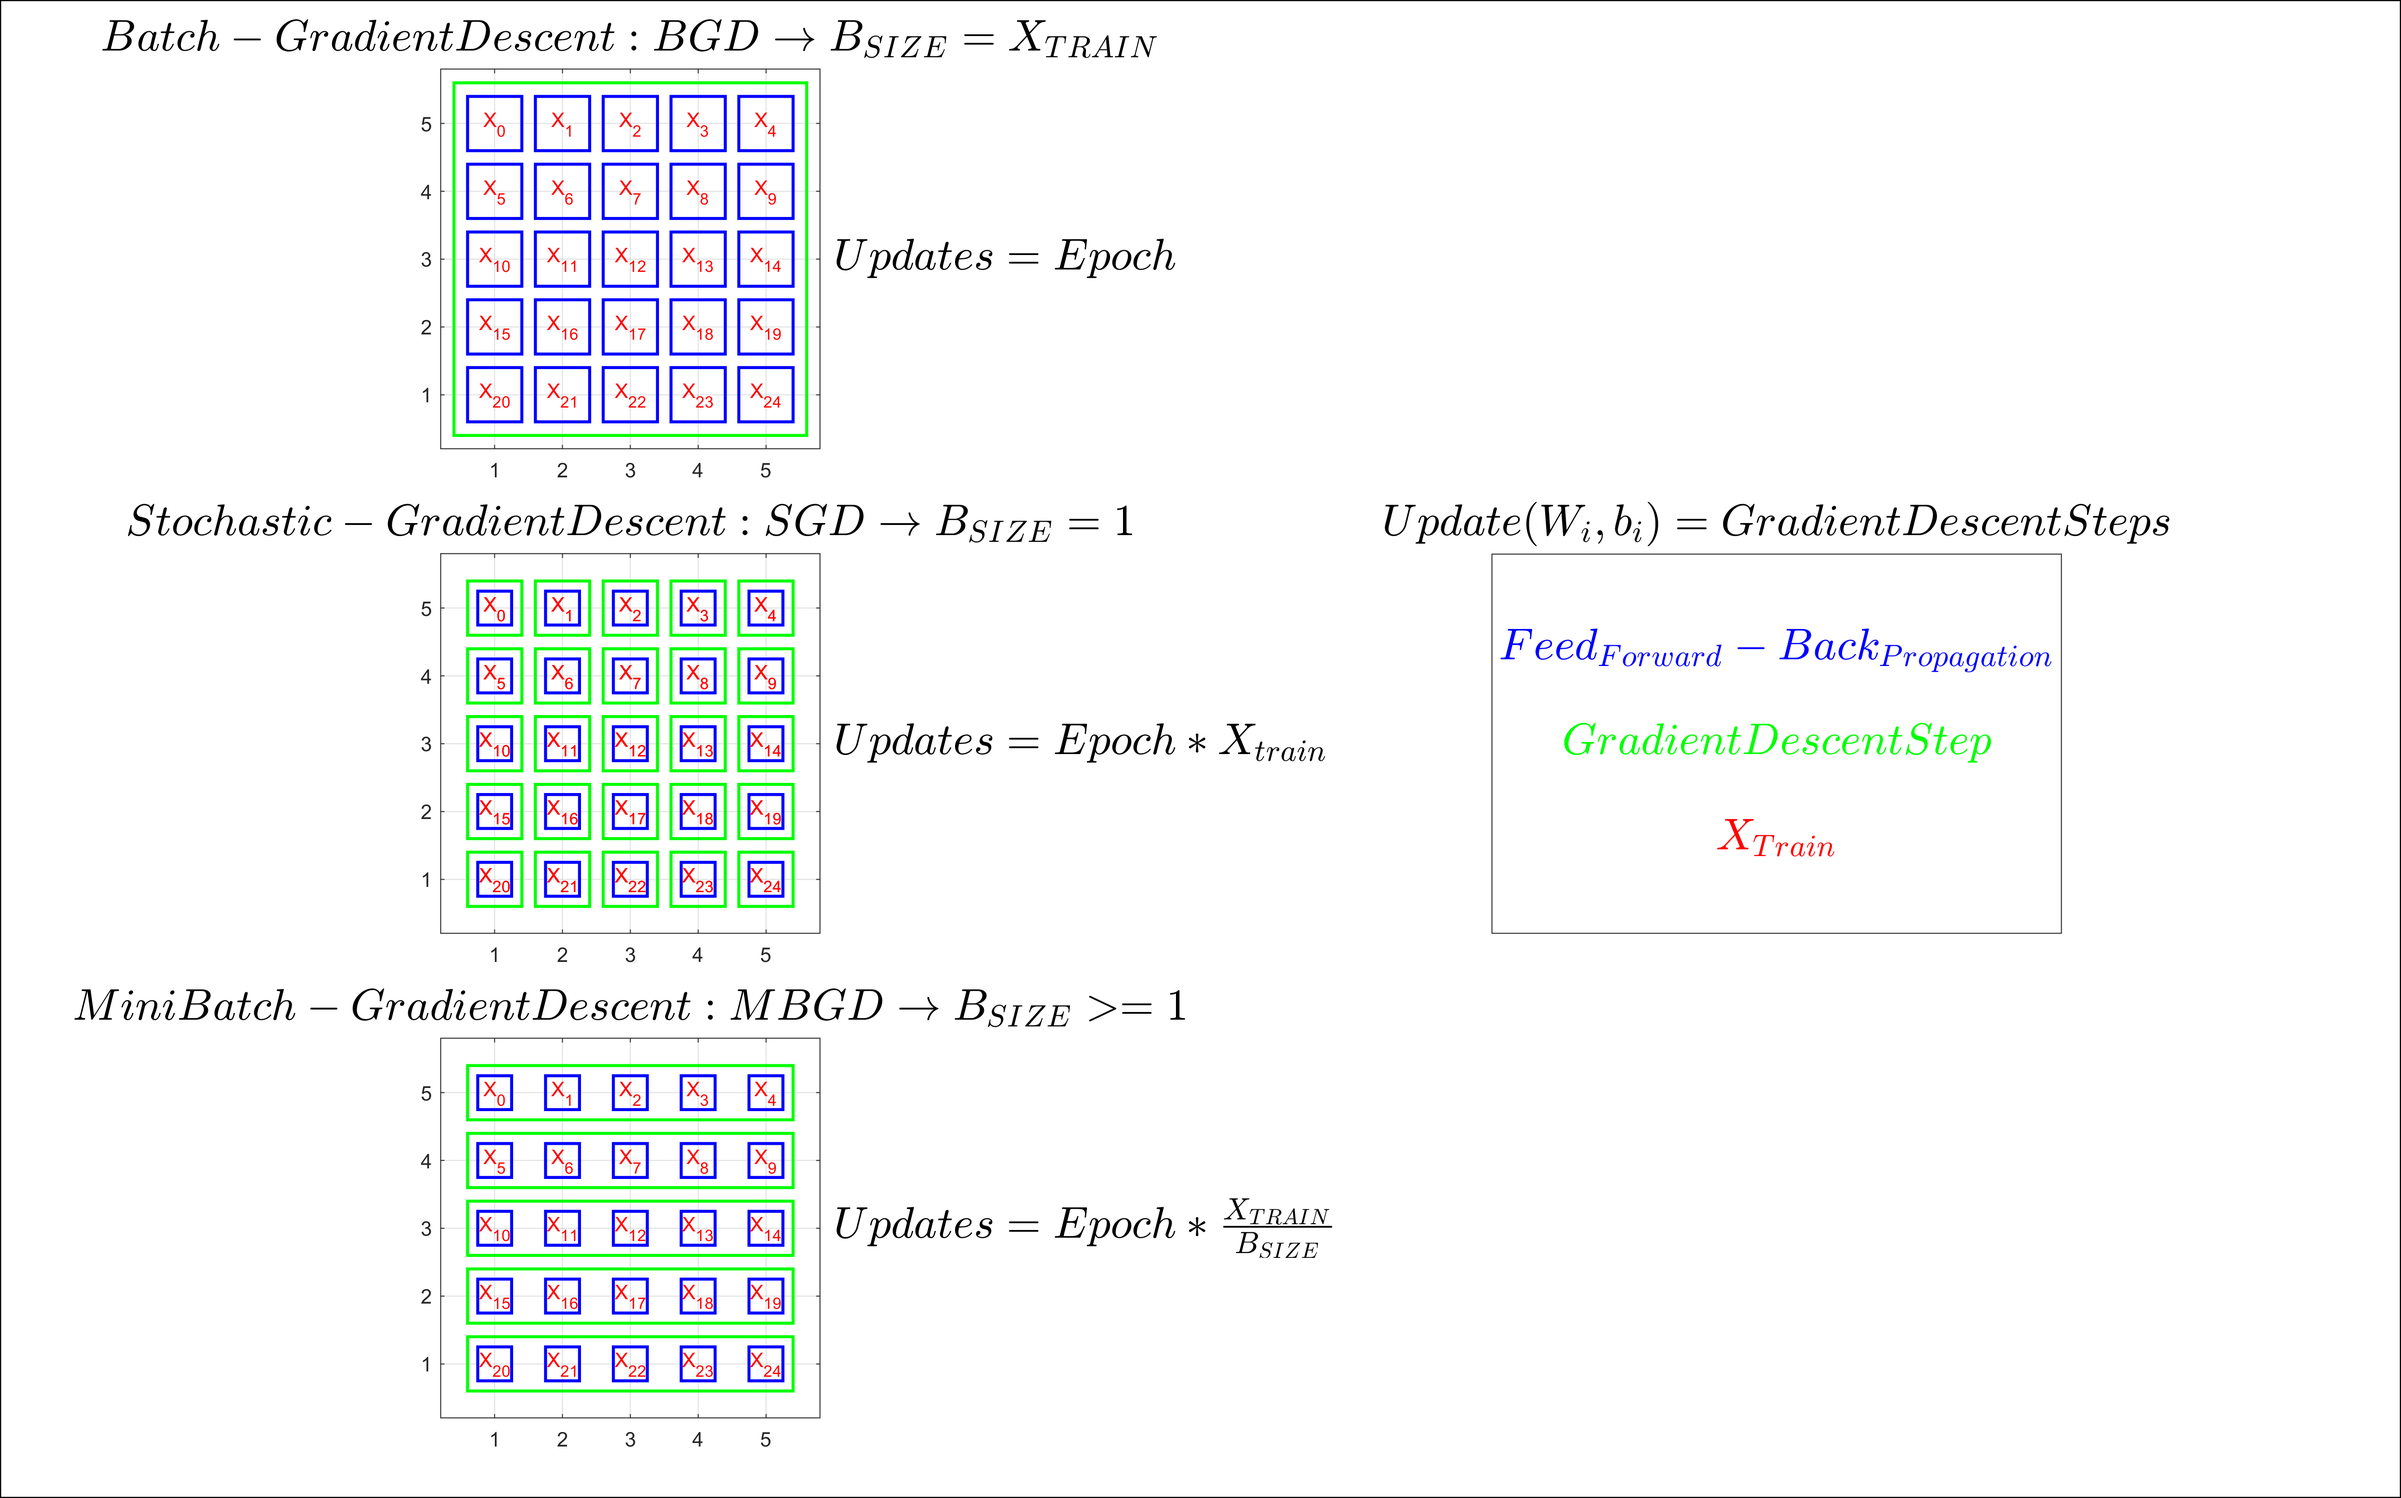
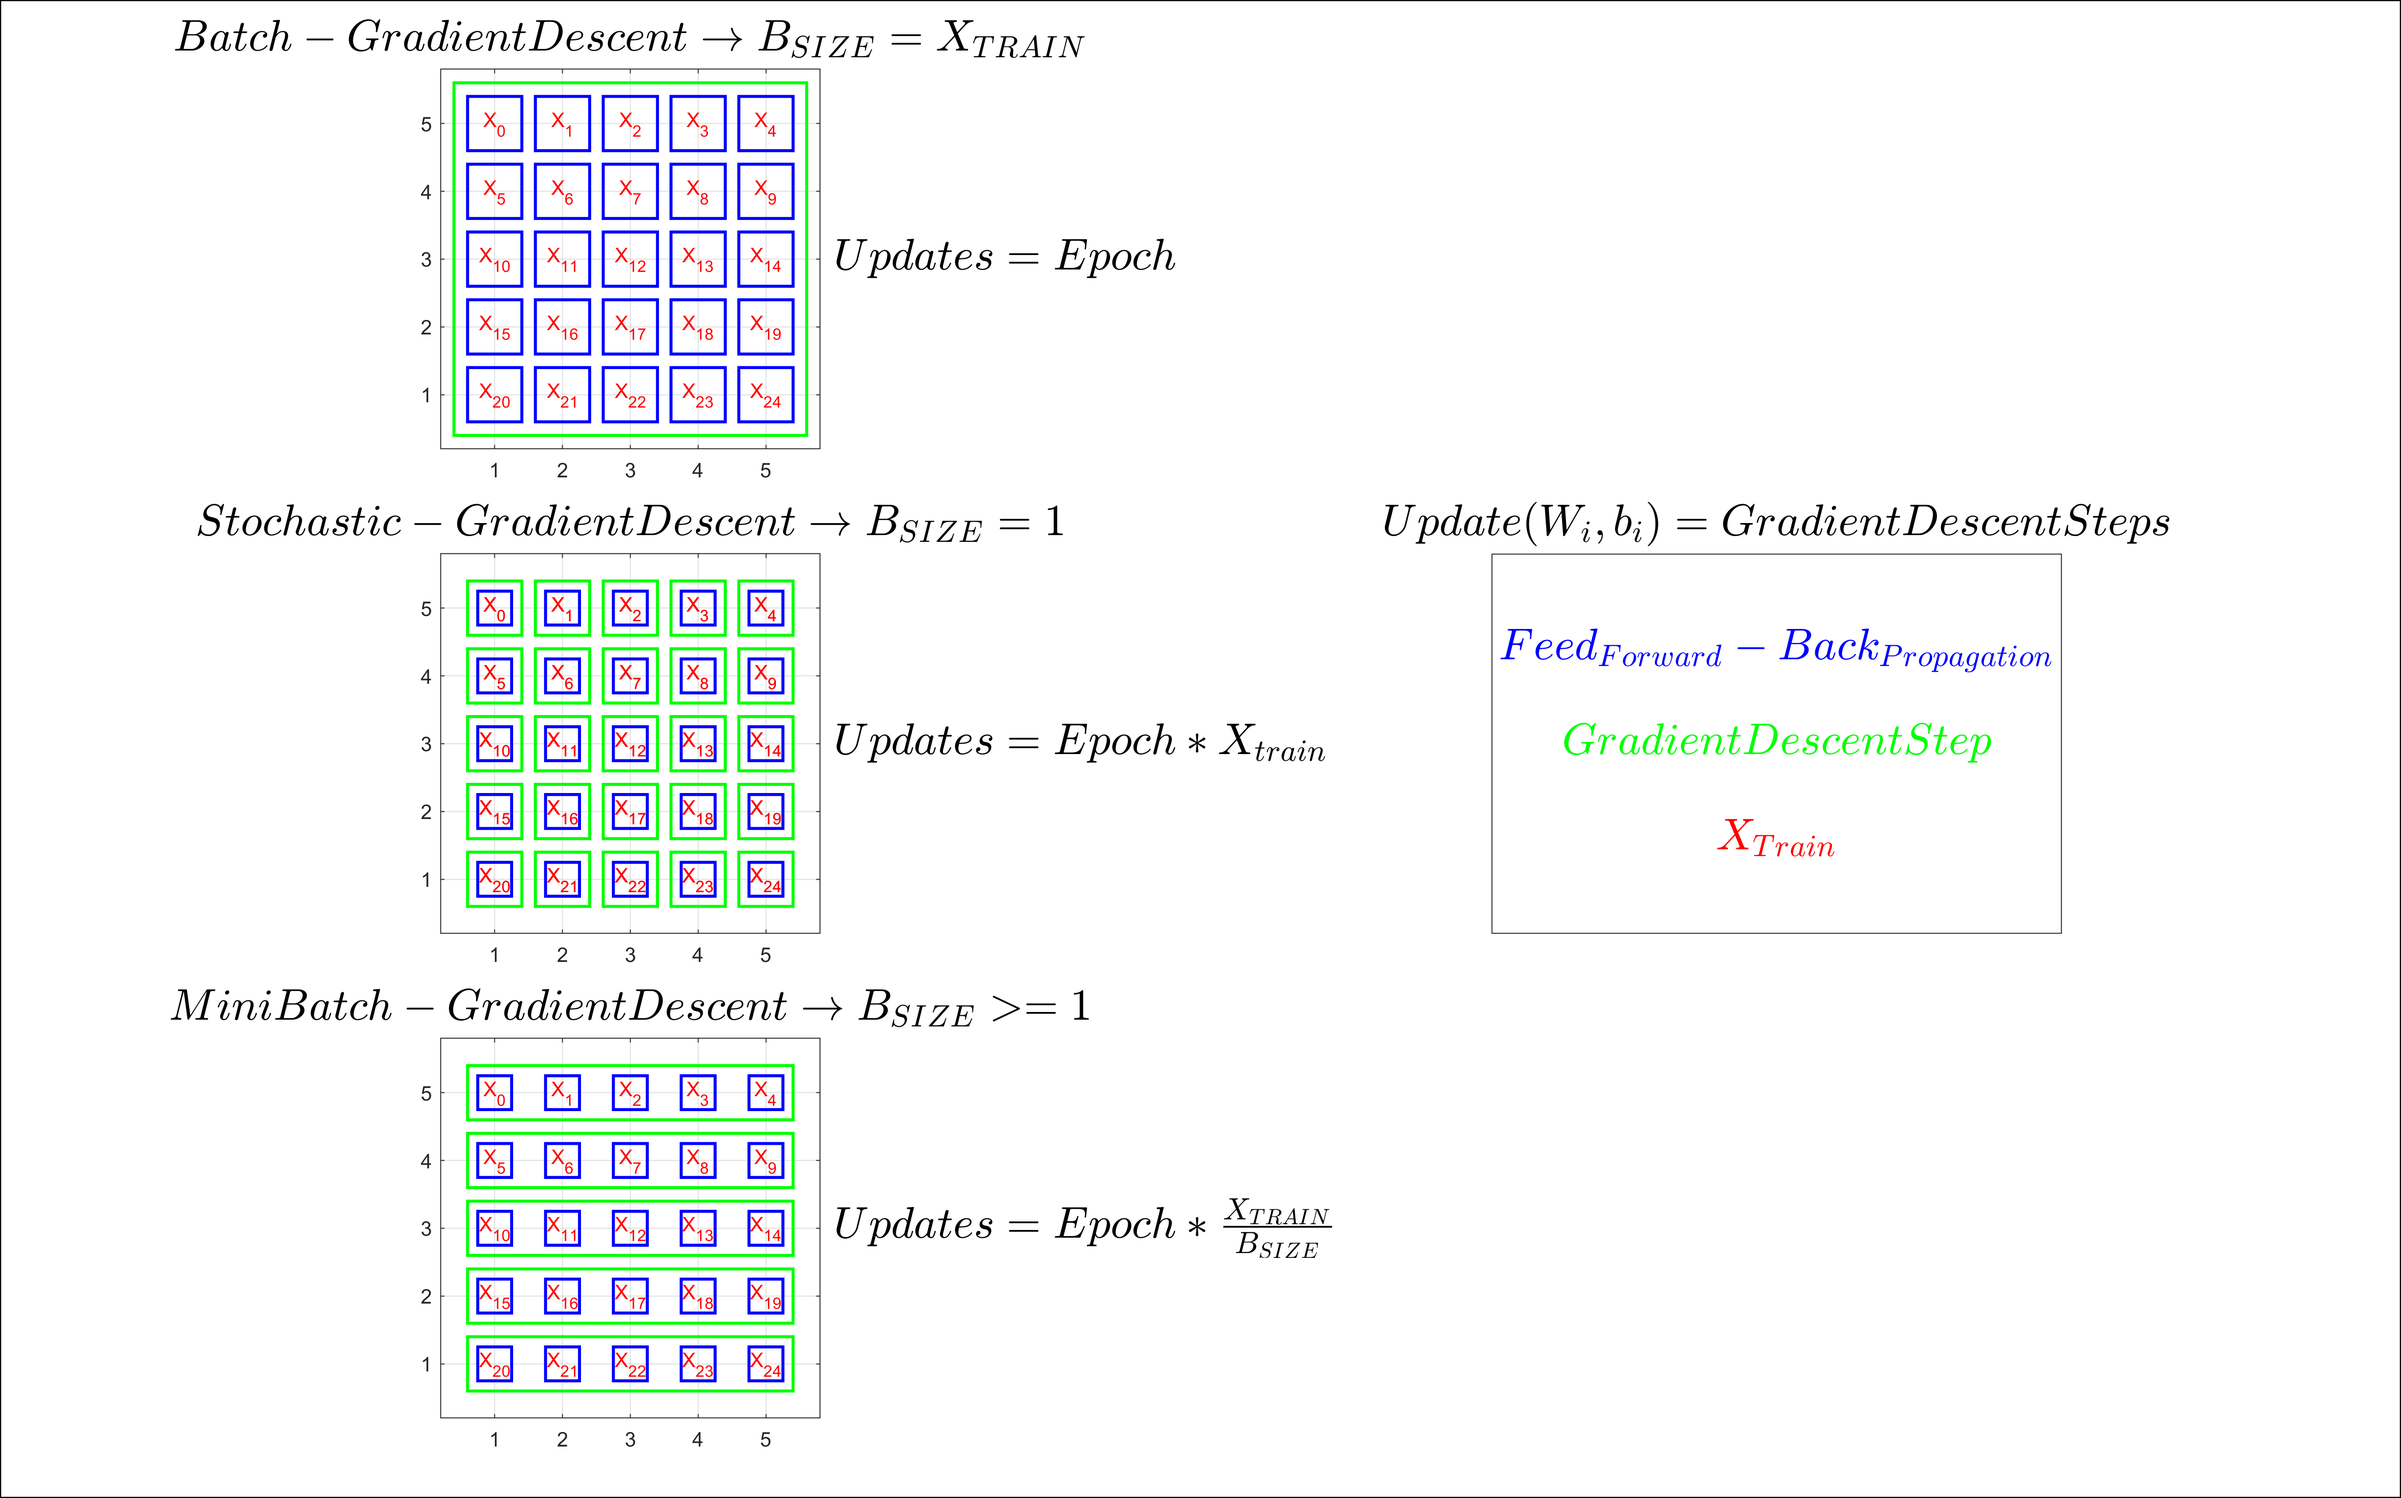
update scripts

Changed region(s): [[0.0311, 0.6544, 0.4661, 0.6855], [0.0621, 0.3428, 0.435, 0.3739], [0.0621, 0.0, 0.435, 0.0312]]

diff --git a/MatlabScripts/GradientDescentAlgorithms.m b/MatlabScripts/GradientDescentAlgorithms.m
@@ -13,7 +13,7 @@ GD_COLOR = [0 1 0];
 nexttile(1)
     hold on;box on;grid on;daspect([1 1 1]);axis([1 n 1 n]+[-1 1 -1 1]*size);
     annotation('rectangle',[0 0 1 1 ],'Color','k',LineWidth=4)
-    title('$Batch-GradientDescent:BGD \rightarrow B_{SIZE}=X_{TRAIN}$','interpreter','latex','fontSize',txtFS)
+    title('$Batch-GradientDescent \rightarrow B_{SIZE}=X_{TRAIN}$','interpreter','latex','fontSize',txtFS)
     plotArray(n,size,'b');
     xy0 = 1-size/2-delta;
     wh  = n+delta;
@@ -22,14 +22,14 @@ nexttile(1)
 
 nexttile(3)
     hold on;box on;grid on;daspect([1 1 1]);axis([1 n 1 n]+[-1 1 -1 1]*size)
-    title('$Stochastic-GradientDescent:SGD \rightarrow B_{SIZE}=1$','interpreter','latex','fontSize',txtFS)
+    title('$Stochastic-GradientDescent \rightarrow B_{SIZE}=1$','interpreter','latex','fontSize',txtFS)
     plotArray(n,0.5,'b');
     plotArray(n,0.8,GD_COLOR);
     text(6,3,'$Updates = Epoch*X_{train}$','interpreter','latex','fontSize',txtFS)
 
 nexttile(5)
     hold on;box on;grid on;daspect([1 1 1]);axis([1 n 1 n]+[-1 1 -1 1]*size)
-    title('$MiniBatch-GradientDescent:MBGD \rightarrow B_{SIZE}>=1$','interpreter','latex','fontSize',txtFS)
+    title('$MiniBatch-GradientDescent \rightarrow B_{SIZE}>=1$','interpreter','latex','fontSize',txtFS)
     plotArray(n,0.5,'b');
     plotBach(n,0.8,GD_COLOR);
     text(6,3,'$Updates = Epoch*\frac{X_{TRAIN}}{B_{SIZE}}$','interpreter','latex','fontSize',txtFS)

diff --git a/README.md b/README.md
@@ -1,4 +1,4 @@
-## Gradient Descent Algorithms
+# Gradient Descent Algorithms
 
 - Batch Gradient Descent.
 - Stochastic Gradient Descent.
@@ -6,10 +6,40 @@
 
 <img src="MatlabScripts/imgs/GradientDescentAlgorithms.png"  width="100%">
 
-## Derivatives on Computational Graphs
+# Derivatives on Computational Graphs
 
 $\frac{\partial{Z}}{\partial{X}} \rightarrow$ Sum over all possible paths between node $X$ and node $Z$, multiplying the derivatives on each edge of the path together.
 
 <img src="MatlabScripts/imgs/chainRule0.png"  width="100%">
 <img src="MatlabScripts/imgs/chainRule1.png"  width="100%">
 <img src="MatlabScripts/imgs/chainRule2.png"  width="100%">
+
+
+## *Neural Network*
+$$layers \textrm{ }l=0,1,2...L$$
+$$layer(l-1)\rightarrow k \textrm{ } neurons$$
+$$layer(l)  \rightarrow j \textrm{ } neurons$$
+
+## *Feed forward activations*
+$$a^{l}_j = \sigma \bigg( \sum_k w^{l}_{jk} a^{l-1}_k + b^l_j \bigg) $$
+
+## *Feed forward activations in vectorized form*
+$$a^l = \sigma \bigg( W^la^{l-1}+b^l \bigg)$$
+
+## *Cost function*
+$$C(w,b) = \frac{1}{2n} \sum_x \| y(x) - a^L\|^2 $$
+
+## *Gradient vector of the cost function*
+$$TrainingInputs=x_1, x_2, \ldots,x_n$$
+$$MiniBatches=X_1, X_2, \ldots,X_m$$
+$$\frac{\sum_{j=1}^m \nabla C_{X_{j}}}{m} \approx \frac{\sum_{x=1}^n\nabla C_x}{n} = \nabla C$$
+$$\nabla C \approx \frac{1}{m} \sum_{j=1}^m \nabla C_{X_{j}}$$
+
+## *Update W,b using Gradient Descent*
+$$w_k \rightarrow w_k' = w_k-\eta \frac{\partial C}{\partial w_k}$$
+$$b_l \rightarrow b_l' = b_l-\eta \frac{\partial C}{\partial b_l}$$
+
+## *Update W,b using Stochastic Gradient Descent with Mini-Batches $X_j$*
+$$w_k \rightarrow w_k' = w_k-\frac{\eta}{m}\sum_j \frac{\partial C_{X_j}}{\partial w_k}$$
+$$b_l \rightarrow b_l' = b_l-\frac{\eta}{m}\sum_j \frac{\partial C_{X_j}}{\partial b_l}$$
+
